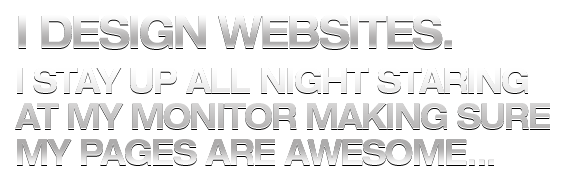
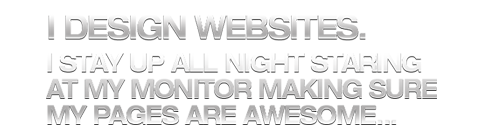
Title

diff --git a/styles.css b/styles.css
@@ -12,78 +12,81 @@ body {
 	clear:both
 }
 #wrap {
-	width:960px;
+	width:1180px;
+	height: 150px;
 	padding:0 10px;
 	margin:0 auto;
 	position:relative;
 	min-height:1000px;
 }
 #header {
-	background:url(images/header-bg.png) no-repeat;
-	width:940px;
-	height:384px;
+	width:1180px;
+	height:210px;
+}
+
+#board{
+	width:1180px;
+	height: 300px;
+	background-color: #000;
+
 }
 h2#logo {
-	background:url(images/logo.png);
+	background:url(images/logo.png) no-repeat;
 	/* font:chalkduster */
-	width:200px;
-	height:64px;
+	width:250px;
+	height:130px;
 	text-indent:-999px;
 	position:relative;
 	top:55px;
+	left: 50px;
 }
 ul#nav {
 	position:relative;
-	left:250px;
+	left:380px;
+	top:-40px;
 }
 ul#nav li {
 	float:left;
 	list-style:none;
-	height:38px;
+	height:80px;
 }
 ul#nav li a {
 	display:block;
-	height:38px;
+	height:80px;
 	outline:none;
 	text-indent:-9999px;
 	background:url(images/navigation.png) no-repeat;
+
 }
-ul#nav li a#rec {
-	width:123px;
-	margin-right:14px;
+ul#nav li a#blog {
+	width:80px;
+	margin-right:14px
 }
-ul#nav li a:hover#rec {
+ul#nav li a:hover#blog {
 	position:relative;
 	top:-3px;
 }
-ul#nav li a#con {
-	background-position:-136px 0;
-	width:112px;
+ul#nav li a#gallery {
+	background-position:-80px 0;
+	width:125px;
 }
-ul#nav li a:hover#con {
+ul#nav li a:hover#gallery {
 	position:relative;
 	top:-3px;
 }
 
-#header p {
-	width:565px;
-	height:184px;
-	background:url(images/idesignwebsites.png);
-	text-indent:-9999px;
-	position:relative;
-	top:105px;
-}
+
 #testimonials {
 	height:283px;
-	width:940px;
-	background:url(images/testimonials-bg.png);
+	width:1180px;
+	background:url(images/testimonials-bg.png) no-repeat;
 }
 #testimonials h2 {
-	background:url(images/somekindwords.png);
+	background:url(images/whatsinmymind.png) no-repeat;
 	width:369px;
 	height:35px;
 	position:relative;
-	top:4px;
+	top:6px;
 	left:42px;
 	text-indent:-9999px;
 }
@@ -99,19 +102,19 @@ ul#nav li a:hover#con {
 	line-height:20px;
 }
 #quotes {
-	background:url(images/quotes-bg.png);
-	width:940px;
+	background:url(images/quotes-bg.png) no-repeat;
+	width:1180px;
 	height:481px;
 	position:relative;
 	top:-62px;
 }
 p#quote-1 {
 	background:url(images/quote-1.png);
-	width:538px;
+	width::80px;
 	height:199px;
 	position:relative;
 	top:100px;
-	left:385px;
+	left:805px;
 	text-indent:-9999px;
 }
 p#quote-2 {

diff --git a/index.html b/index.html
@@ -12,13 +12,17 @@
   <div id="header">
     <h2 id="logo">Benny1ce</h2>
     <ul id="nav">
-      <li><a id="rec" href="http://blog.benny1ce.com">Blog</a></li>
-      <li><a id="con" href="http://gallery.benny1ce.com">Gallery</a></li>
+      <li><a id="blog" href="http://blog.benny1ce.com">Blog</a></li>
+      <li><a id="gallery" href="http://gallery.benny1ce.com">Gallery</a></li>
     </ul>
     <!--nav-->
-    <p>I stay up all night staring at my monitor making sure my pages are awesome...</p>
   </div>
   <!--header-->
+  <div id="board">
+
+    
+  </div>
+
   <div id="testimonials" class="clear">
     <h2>What's in my mind recently?</h2>
     <div class="col-1"></div>
